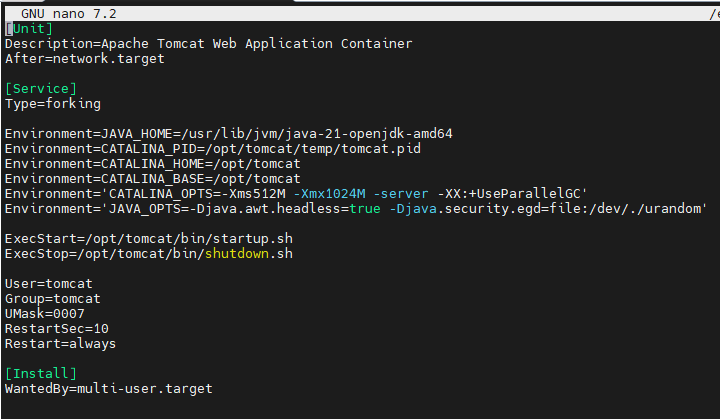
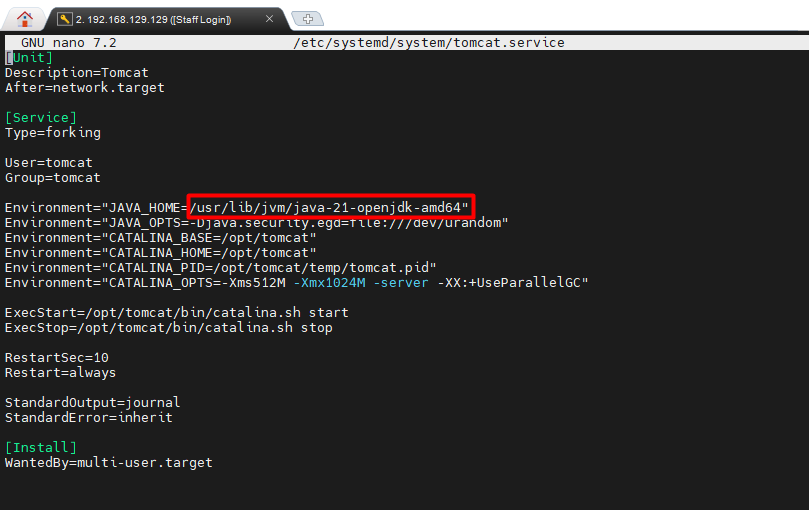
Reconfiguring apache tomcat day-3.

Changed region(s): [[0.0, 0.3103, 0.9778, 0.8377], [0.0, 0.0, 1.0, 0.2792], [0.0, 0.8687, 0.3056, 0.9618]]

diff --git a/Java-Webapps-Simulation/1/Installing-ApacheTomcat_and_ApacheHTTP.md b/Java-Webapps-Simulation/1/Installing-ApacheTomcat_and_ApacheHTTP.md
@@ -69,26 +69,48 @@ If in the future the downloadable file error you, can visit this main website to
 
 <b>C. Configuring Admin Users</b>
 
+<a href="https://github.com/setiyadi-ben/Linux-Engineer-Applied-Practice/blob/main/Java-Webapps-Simulation/terminal-commands.md#02"><b>Commands are putting up here. If not loaded please refresh the browser.</b></a>
+
+
 <p align="justify">
 8. Tomcat users are defined in /opt/tomcat/conf/tomcat-users.xml. Open the file for editing with the following command:
 
+<p align="center"><img src="/image-files/apache-config-1.png"></p>
 
+<p align="center"><img src="/image-files/apache-config-2.png"></p>
 </p>
 
-<left>
-1. Check the java version to write it in the next configuration.
-<center>
+<p align="justify">
+9. To remove the restriction for the Manager page, open its config file for editing:
 
-![Create Tomcat user](/image-files/apache-install-5.png)
+<p align="center"><img src="/image-files/apache-config-3.png"></p>
+Comment out the Valve definition, as shown:
+<p align="center"><img src="/image-files/apache-config-4.png"></p>
 
+<p align="center"><img src="/image-files/apache-config-5.png"></p>
+Save and close the file, then repeat for Host Manager:
+
+<p align="center"><img src="/image-files/apache-config-6.png"></p>
+</p>
+
+<b>D. Creating a systemd service </b>
+
+<a href="https://github.com/setiyadi-ben/Linux-Engineer-Applied-Practice/blob/main/Java-Webapps-Simulation/terminal-commands.md#02"><b>Commands are putting up here. If not loaded please refresh the browser.</b></a>
+
+<p align="justify">
+10. Check the java version to write it in the next configuration.
+
+<p align="center"><img src="/image-files/apache-install-4.png"></p>
+You’ll store the tomcat service in a file named tomcat.service, under /etc/systemd/system. Create the file for editing by running:
+<!-- ![Create Tomcat user](/image-files/apache-install-5.png) -->
+<p align="center"><img src="/image-files/apache-install-5.png"></p>
 
 ![Create Tomcat user](/image-files/apache-install-6.png)
 <br>Don't forget to type <b>ctrl + x then y and enter to save</b></br>
-</center>
-</left>
+</p>
 
 <left>
-8. To be able to access /opt/tomcat/bin/*.sh I'm switching to root user then restarting the service like the image shown below.
+1. To be able to access /opt/tomcat/bin/*.sh I'm switching to root user then restarting the service like the image shown below.
 <center>
 
 ![Create Tomcat user](/image-files/apache-install-7.png)

diff --git a/Java-Webapps-Simulation/terminal-commands.md b/Java-Webapps-Simulation/terminal-commands.md
@@ -26,22 +26,47 @@ ls
 sudo mkdir /opt/tomcat
 sudo tar xzvf apache-tomcat-10.1.34.tar.gz -C /opt/tomcat --strip-components=1
 ~~~
+
 **5. By supplying /bin/false as the user’s default shell, you ensure that it’s not possible to log in as tomcat.**
 ~~~bash
 sudo useradd -m -d /opt/tomcat -U -s /bin/false tomcat
 ~~~
+
+## Apache Tomcat Admin Configuration
+### [back to Installation of Apache Tomcat and Apace HTTP Service](./1/Installing-ApacheTomcat_and_ApacheHTTP.md)
+<a id="03"></a>
+
 **6. Tomcat users are defined in /opt/tomcat/conf/tomcat-users.xml. Open the file for editing with the following command:**
-~~~
+~~~bash
 sudo nano /opt/tomcat/conf/tomcat-users.xml
 ~~~
 Add the following lines before the ending tag:
 ~~~xml
+ <!-- Define roles | to be used later -->
+<role rolename="manager-script"/>
+<role rolename="manager-jmx"/>
+<role rolename="manager-status"/>
+<!-- Standard roles-->
 <role rolename="manager-gui" />
+
 <user username="manager" password="manager_password" roles="manager-gui" />
+<user username="staff1-engineer" password="password" roles="manager-gui,manager-script,manager-jmx,manager-status" />
 
 <role rolename="admin-gui" />
 <user username="admin" password="admin_password" roles="manager-gui,admin-gui" />
+<user username=""/>
 ~~~
+
+**7. To remove the restriction for the Manager page, open its config file for editing:**
+~~~xml
+sudo nano /opt/tomcat/webapps/manager/META-INF/context.xml
+~~~
+Save and close the file, then repeat for Host Manager:
+~~~bash
+sudo nano /opt/tomcat/webapps/host-manager/META-INF/context.xml
+~~~
+
+
 **6. Verify the newly installed java version to put inside tomcat.service**
 ~~~bash
 sudo update-alternatives --config java
